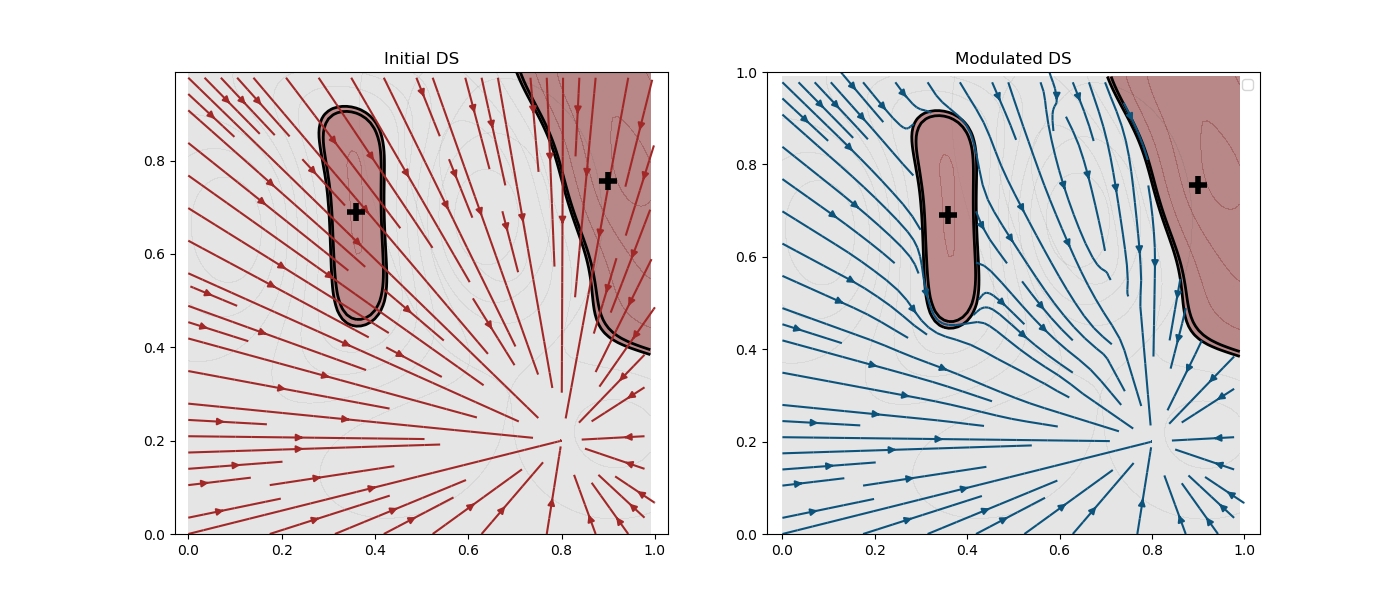
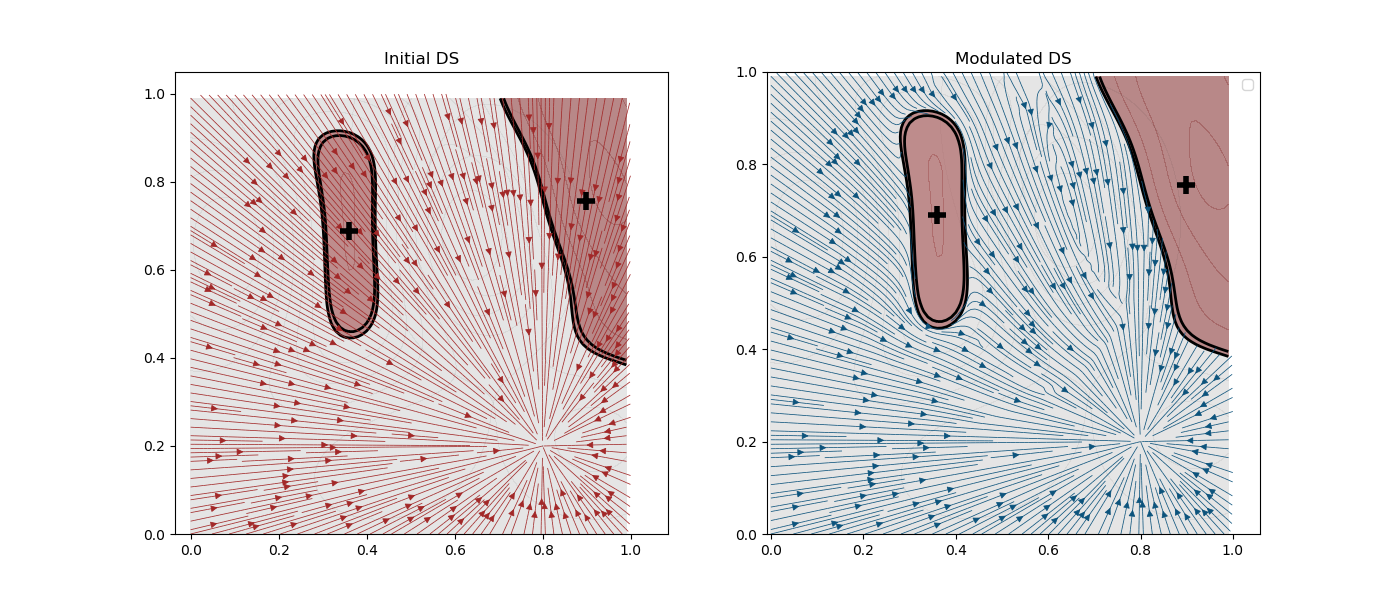
Some changes to compare implementations

Changed region(s): [[0.0921, 0.12, 0.4914, 0.93], [0.5221, 0.12, 0.8907, 0.93]]

diff --git a/scripts/test_learning_obstacle_gradient.py b/scripts/test_learning_obstacle_gradient.py
@@ -66,18 +66,20 @@ def create_normal_vector_field(Obstacles, resolution=20, x_range=[0, 1], y_range
     # YY = YY.flatten()
 
     col_lists = ['red', 'blue']
-
+    positions = np.c_[XX.ravel(), YY.ravel()].T
     # Is this for the "normal" obstacle definition?
-    if True:
-        # for oo in range(len(Obstacles)):
-            # normal_vecs = Obstacles[oo].get_normal_direction(position=np.c_[XX.ravel, YY.ravel].T)
-            # ref_dirs = Obstacles[oo].get_reference_direction(position=np.c_[XX.ravel, YY.ravel].T, in_global_frame=True)
-            # fig, ax = plt.subplots()
-            # Obstacles[oo].draw_obstacle(show_contour=False, fig=fig, ax=ax)
-            # ax.quiver(XX, YY, normal_vecs[0, :], normal_vecs[1, :], color=col_lists[0])
-            # plt.axis('equal')
-            # print('DOING THISSS')
-
+    if False:
+        for oo in range(len(Obstacles)):
+            normal_vecs = Obstacles[oo].get_normal_direction(position=positions)
+            ref_dirs = Obstacles[oo].get_reference_direction(position=positions, in_global_frame=True)
+            fig, ax = plt.subplots()
+            Obstacles[oo].draw_obstacle(show_contour=False, fig=fig, ax=ax)
+            ax.quiver(XX, YY, normal_vecs[0, :], normal_vecs[1, :], color=col_lists[0])
+            ax.quiver(XX, YY, ref_dirs[0, :], ref_dirs[1, :], color=col_lists[1])
+            plt.axis('equal')
+            print('DOING THISSS')
+            plt.savefig('../figures/example_svmlearnedGamma_normalVectorField_{}.png'.format(oo))
+    else:
         res_x = res_y = resolution
         normal_vecs = np.zeros((Obstacles[0].dim, res_x, res_y))
         ref_dirs = np.zeros((Obstacles[0].dim, res_x, res_y))
@@ -93,7 +95,7 @@ def create_normal_vector_field(Obstacles, resolution=20, x_range=[0, 1], y_range
             Obstacles[oo].draw_obstacle(show_contour=True, gamma_value=False, fig=fig, ax=ax)
             ax.quiver(XX, YY, normal_vecs[0, :], normal_vecs[1, :], color='red')
             ax.quiver(XX, YY, ref_dirs[0, :], ref_dirs[1, :], color='blue')
-            plt.savefig('../figures/example_svmlearnedGamma_normalVectorField_{}.png'.format(oo))
+            plt.savefig('../figures/example_svmlearnedGamma_normalVectorField_{}_adapted.png'.format(oo))
         
 def create_modulated_vector_field(Obstacles, pos_attractor=None, resolution=80, x_range=[0, 1], y_range=[0, 1], plot_type_quiver=True, max_vel=0.1):
     YY, XX = np.mgrid[y_range[0]:y_range[1]:resolution*1j, x_range[0]:x_range[1]:resolution*1j]
@@ -140,7 +142,7 @@ def create_modulated_vector_field(Obstacles, pos_attractor=None, resolution=80, 
         ax = plt.subplot(1, 2, 1)
         for oo in range(len(Obstacles)):
             Obstacles[oo].draw_obstacle(show_contour=False, fig=fig, ax=ax)
-        str1 = plt.streamplot(XX, YY, ds_initial[0, :, :], ds_initial[1, :, :], color='#A22828')
+        str1 = plt.streamplot(XX, YY, ds_initial[0, :, :], ds_initial[1, :, :], density = 3.5, linewidth=0.55,  color='#A22828')
         plt.title("Initial DS")
         plt.axis('equal')
 
@@ -148,7 +150,7 @@ def create_modulated_vector_field(Obstacles, pos_attractor=None, resolution=80, 
         for oo in range(len(Obstacles)):
             Obstacles[oo].draw_obstacle(show_contour=False, fig=fig, ax=ax)
 
-        str2 = plt.streamplot(XX, YY, ds_modulated[0, :, :], ds_modulated[1, :, :], color='#0C537C')
+        str2 = plt.streamplot(XX, YY, ds_modulated[0, :, :], ds_modulated[1, :, :], density = 3.5, linewidth=0.55, color='#0C537C')
         plt.title("Modulated DS")
         plt.axis('equal')       # 
 
@@ -183,6 +185,6 @@ create_normal_vector_field(Obstacles)
 
 attractor = np.array([0.8, 0.2])
 # create_modulated_vector_field(Obstacles, attractor, resolution=30, plot_type_quiver=True)
-create_modulated_vector_field(Obstacles, attractor, resolution=80, plot_type_quiver=False)
+create_modulated_vector_field(Obstacles, attractor, resolution=100, plot_type_quiver=False)
 
 # read_obstacle_from_file(file_in_path, file_in_name)
